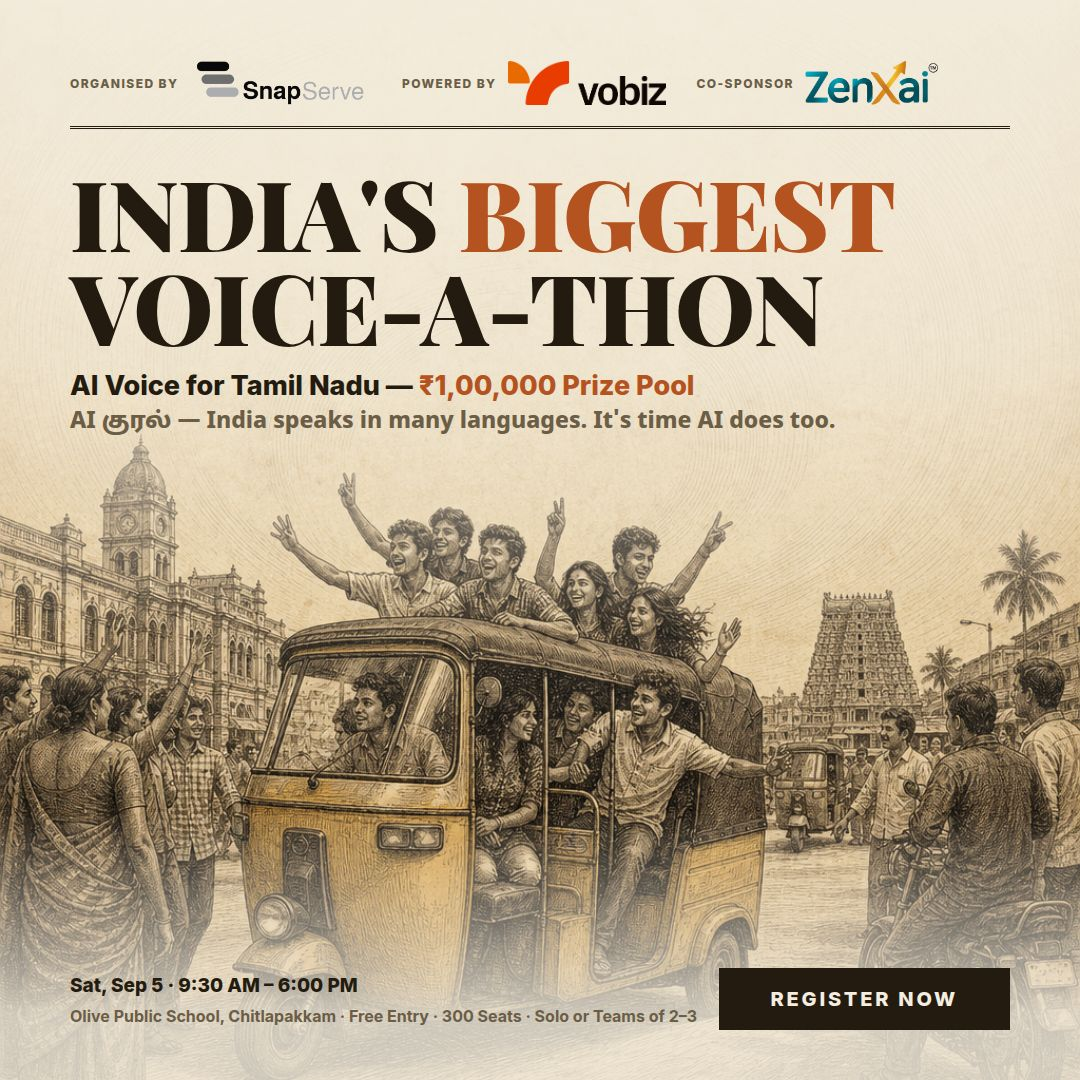
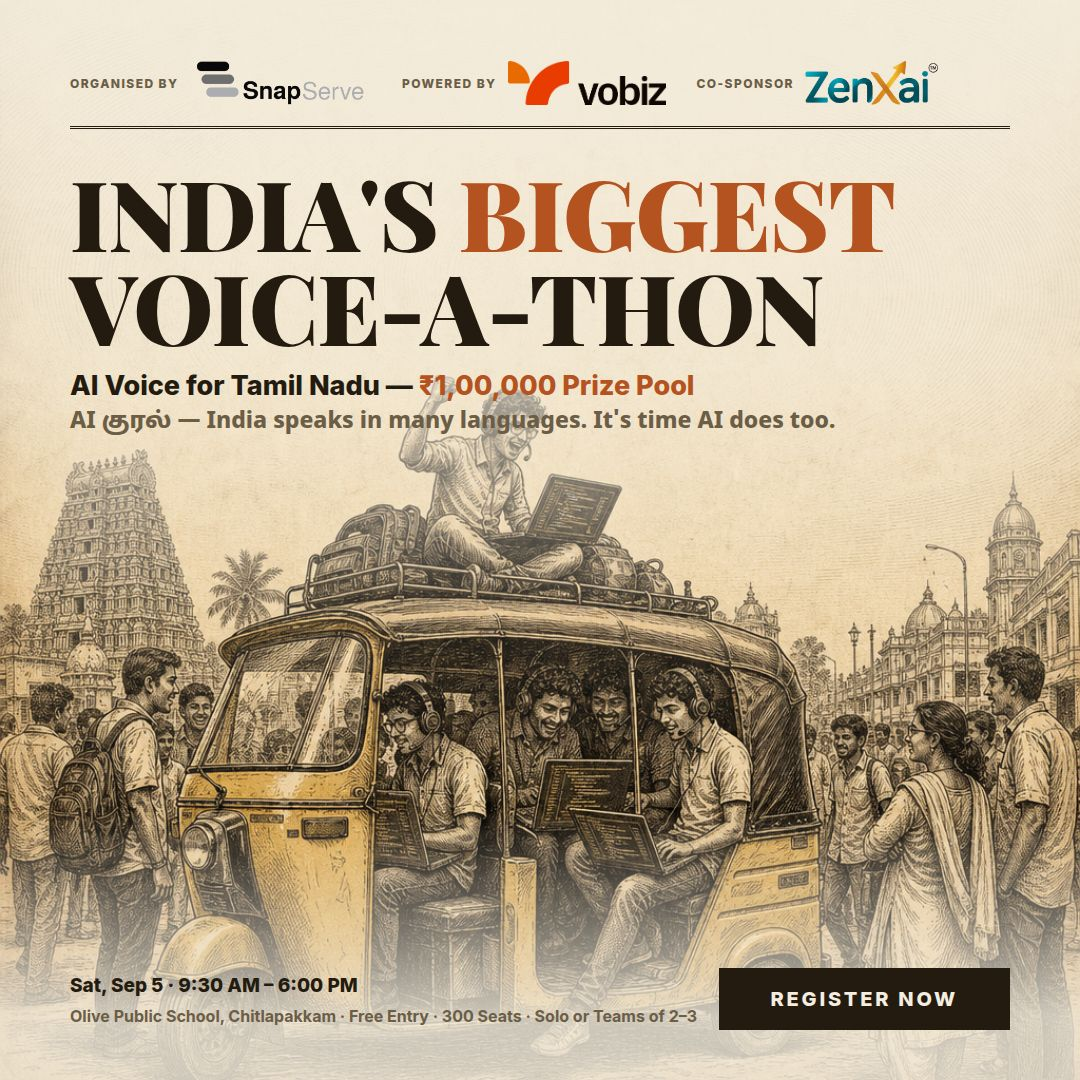
Update agent metadata and add new assets to the snapserve-book poster collection
Replit-Commit-Author: Agent

diff --git a/artifacts/snapserve-book/public/poster/luma21.html b/artifacts/snapserve-book/public/poster/luma21.html
@@ -5,7 +5,7 @@
 *{margin:0;padding:0;box-sizing:border-box}
 html,body{width:1080px;height:1080px;overflow:hidden}
 body{font-family:'Inter',sans-serif;color:#241B10;position:relative}
-.bg{position:absolute;inset:0;background:url(art/fullbleed-news-auto.png) center/cover no-repeat}
+.bg{position:absolute;inset:0;background:url(art/fullbleed-news-auto_2.png) center/cover no-repeat}
 .scrim{position:absolute;inset:0;background:linear-gradient(180deg,rgba(244,238,224,.94) 0%,rgba(244,238,224,.72) 34%,rgba(244,238,224,.1) 58%,rgba(244,238,224,0) 75%,rgba(244,238,224,.82) 94%)}
 .wrap{position:relative;padding:54px 70px;height:100%}
 .mast{display:flex;justify-content:space-between;align-items:center;border-bottom:3px double #241B10;padding-bottom:14px}

diff --git a/artifacts/snapserve-book/public/poster/luma23.html b/artifacts/snapserve-book/public/poster/luma23.html
@@ -5,7 +5,7 @@
 *{margin:0;padding:0;box-sizing:border-box}
 html,body{width:1080px;height:1080px;overflow:hidden}
 body{font-family:'Inter',sans-serif;color:#F2E9D6;position:relative}
-.bg{position:absolute;inset:0;background:url(art/fullbleed-dark-auto.png) center/cover no-repeat}
+.bg{position:absolute;inset:0;background:url(art/fullbleed-dark-auto_2.png) center/cover no-repeat}
 .scrim{position:absolute;inset:0;background:linear-gradient(180deg,rgba(18,14,9,.92) 0%,rgba(18,14,9,.65) 36%,rgba(18,14,9,.08) 60%,rgba(18,14,9,0) 76%,rgba(18,14,9,.88) 95%)}
 .wrap{position:relative;padding:54px 70px;height:100%}
 .mast{display:flex;justify-content:space-between;align-items:center;border-bottom:2px solid rgba(242,233,214,.5);padding-bottom:14px}

diff --git a/artifacts/snapserve-book/public/poster/luma22.html b/artifacts/snapserve-book/public/poster/luma22.html
@@ -5,7 +5,7 @@
 *{margin:0;padding:0;box-sizing:border-box}
 html,body{width:1080px;height:1080px;overflow:hidden}
 body{font-family:'Inter',sans-serif;color:#2E1E10;position:relative;text-align:center}
-.bg{position:absolute;inset:0;background:url(art/fullbleed-halftone-auto.png) center/cover no-repeat}
+.bg{position:absolute;inset:0;background:url(art/fullbleed-halftone-auto_2.png) center/cover no-repeat}
 .scrim{position:absolute;inset:0;background:linear-gradient(180deg,rgba(247,239,222,.95) 0%,rgba(247,239,222,.75) 36%,rgba(247,239,222,.08) 60%,rgba(247,239,222,0) 78%,rgba(247,239,222,.85) 95%)}
 .wrap{position:relative;padding:50px 64px;height:100%}
 .chips{display:flex;gap:32px;align-items:center;justify-content:center}
